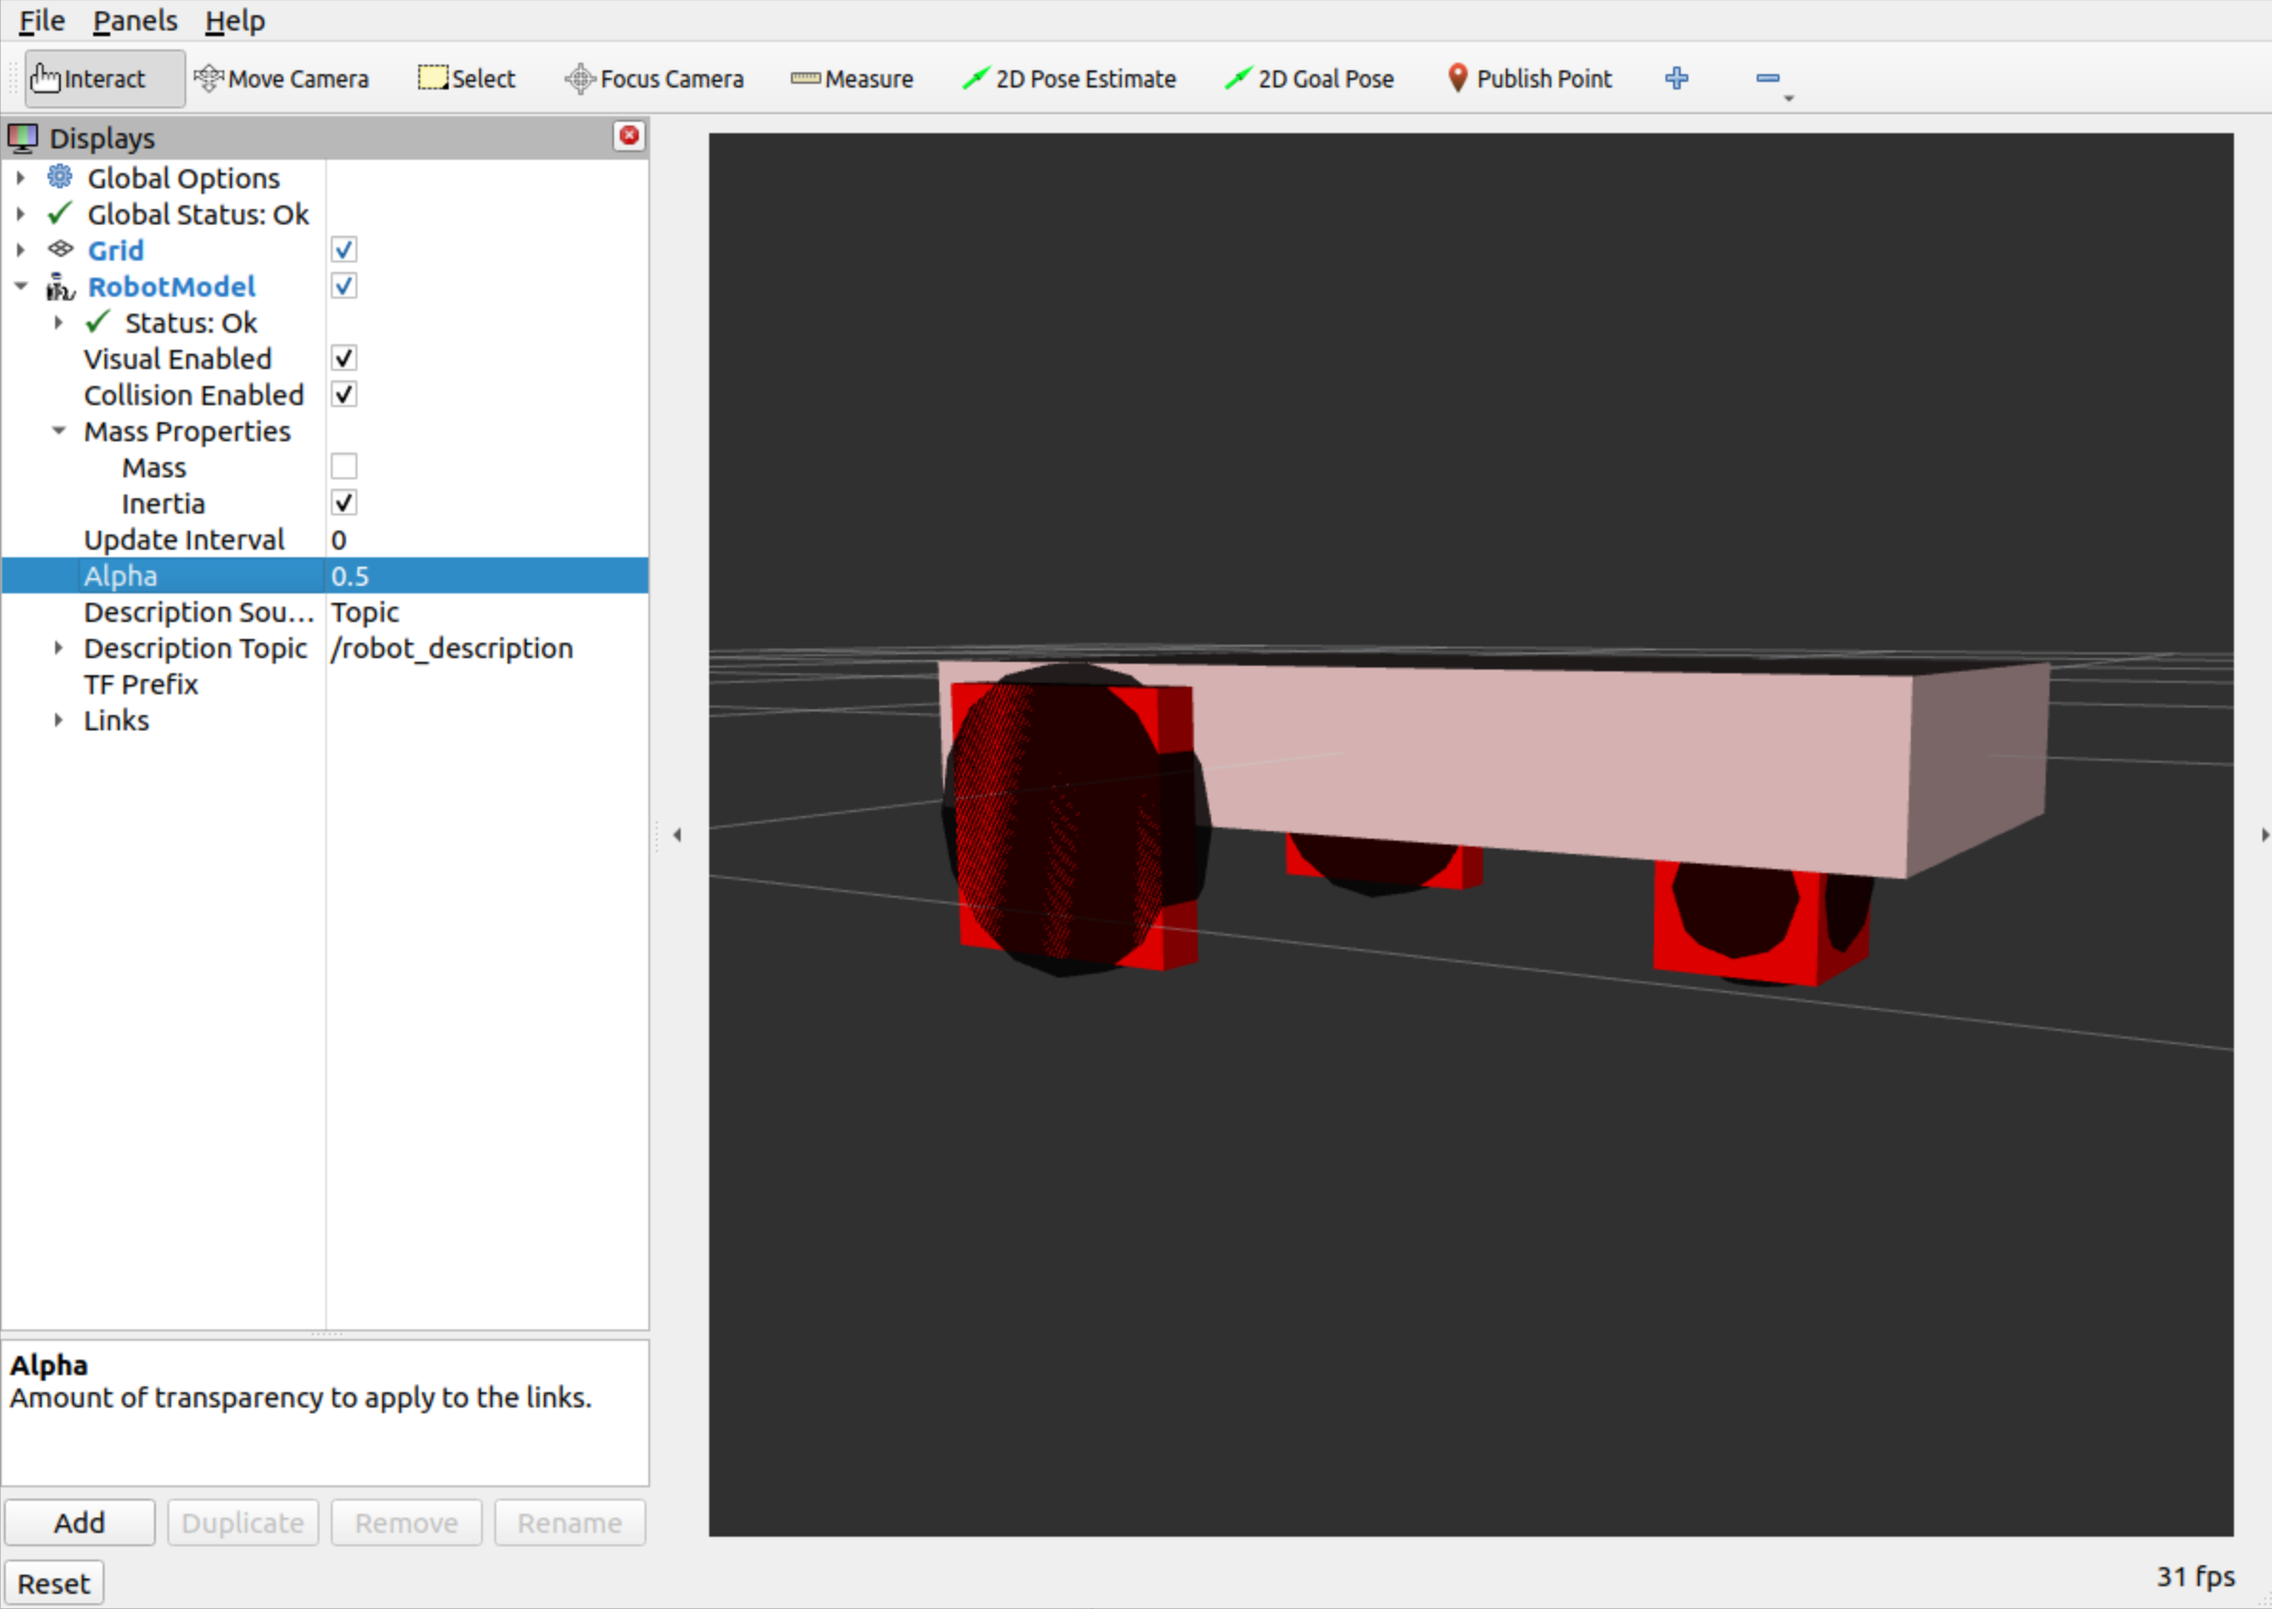
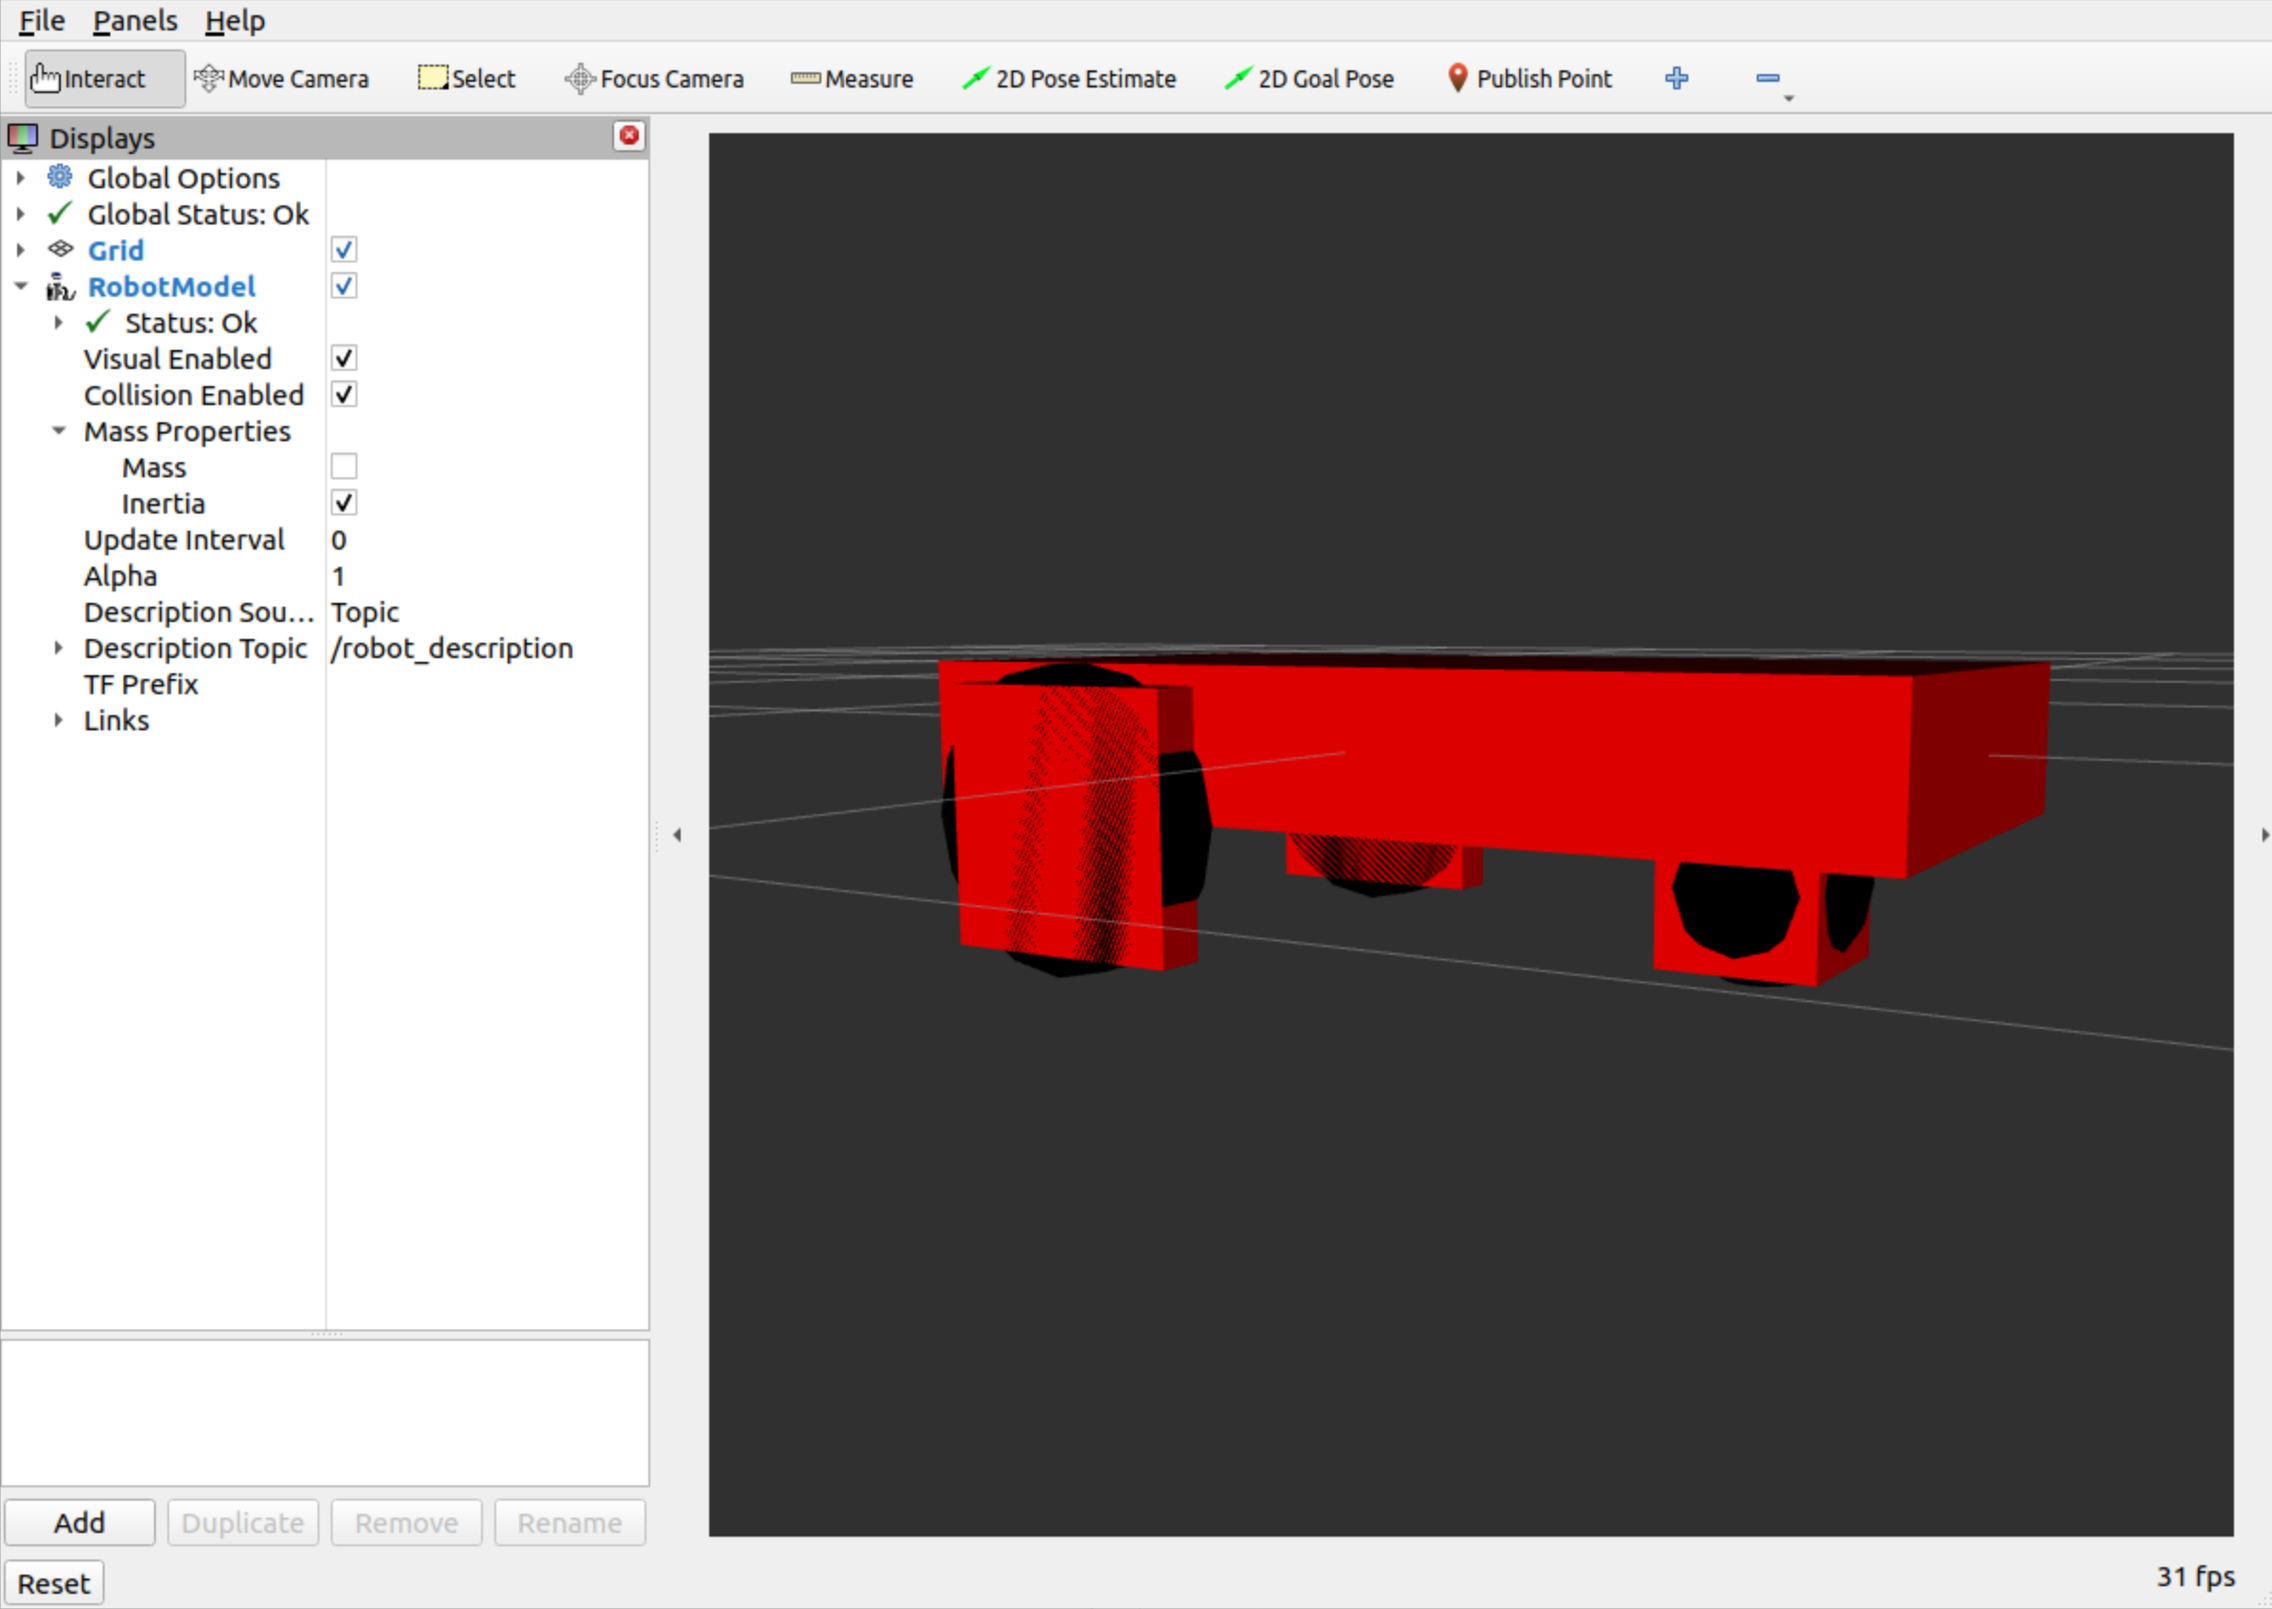
More fixes

Changed region(s): [[0.4025, 0.3995, 0.9289, 0.6147], [0.0, 0.8298, 0.2787, 0.8913], [0.0, 0.3381, 0.3096, 0.3688]]

diff --git a/desplate_xacro/launch/vehicle_urdf.launch.py b/desplate_xacro/launch/vehicle_urdf.launch.py
@@ -31,14 +31,14 @@ def generate_launch_description():
     template_path = os.path.join(pkg, 'urdf', 'vehicle.urdf.xacro')
 
     # This line generates a description file from a Xacro template
-    template_str = xacro.process_file(template_path).toxml()
+    description_str = xacro.process_file(template_path).toxml()
 
     # Visualize on RViz
     pkg_desplate_common = get_package_share_directory('desplate_common')
     visualize = IncludeLaunchDescription(
         PythonLaunchDescriptionSource([os.path.join(
             pkg_desplate_common, 'launch', 'visualize.launch.py')]),
-        launch_arguments=[('template_str', template_str)],
+        launch_arguments=[('description_str', description_str)],
     )
 
     return LaunchDescription([

diff --git a/README.md b/README.md
@@ -52,7 +52,7 @@ Description formats:
 
     ![vehicle_rviz](images/vehicle_rviz.png)
 
-1. Also try checking the inertia visualization (also set transparency to 0.5):
+1. Also try checking the inertia visualization:
 
     ![vehicle_rviz](images/vehicle_rviz_inertia.png)
 
